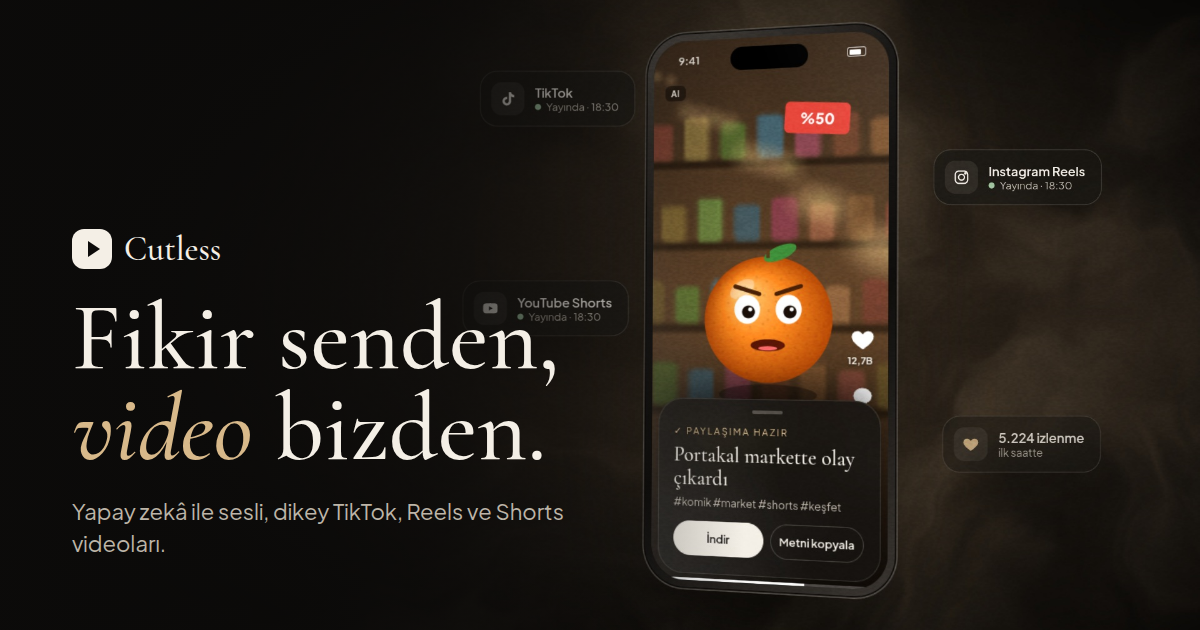
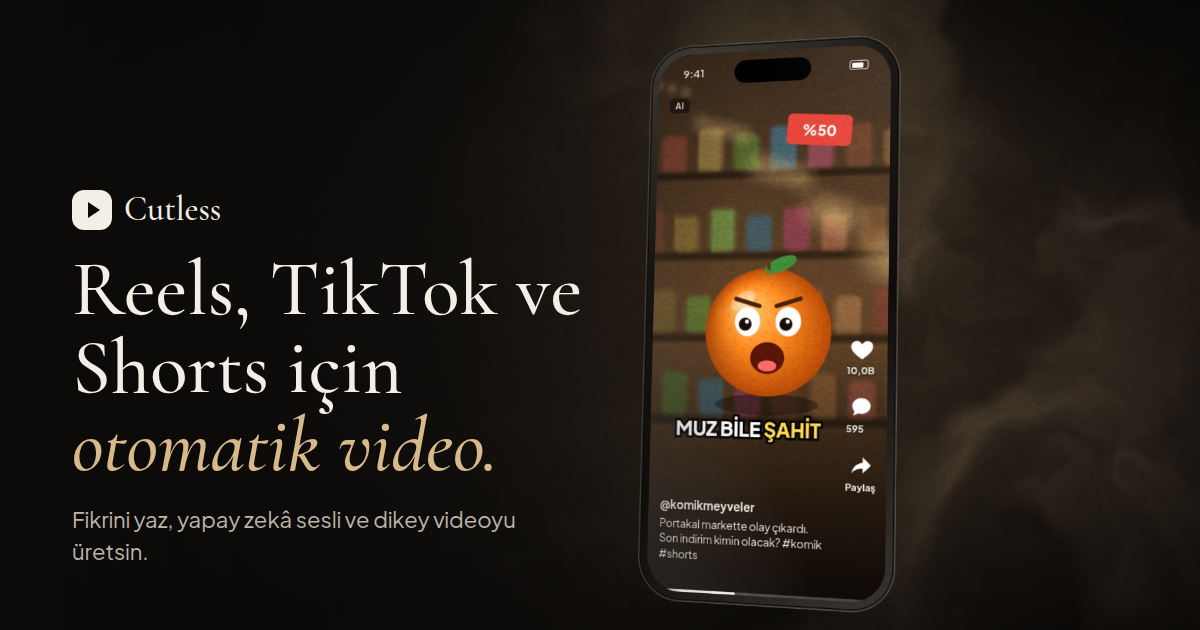
Site: giriş metni ürünü açıkça anlatıyor; sayaçlar yalnızca ilk girişte sayar
- Hero: 'Reels, TikTok ve Shorts için otomatik video.' + ne yaptığını
  anlatan alt metin, platform simgeleri ve güven satırı; alçak dizüstü
  ekranlarda başlık menünün altına kaçmaz
- Sekme başlığı, açıklama ve paylaşım görseli (og.png) aynı mesajla
- Bakiye ve panel sayıları oturumda yalnızca ilk görüşte 0'dan sayar;
  sonra doğrudan görünür, değiştiyse eski değerden yenisine kısaca sayar

Claude-Session: https://claude.ai/code/session_01EkGK4eBhzFBgDTSSVtWr1p

diff --git a/otoshort_site/saas/static/site.css b/otoshort_site/saas/static/site.css
@@ -213,13 +213,16 @@ hr.sep{border:0;border-top:1px solid var(--border);margin:24px 0}
 /* ============ Hero ============ */
 /* ============ Tanıtım filmi (hero) ============ */
 .home .nav{margin-bottom:calc(-68px * var(--fs) - 1px)}
-.hero-film{position:relative;height:100svh;min-height:640px;max-height:1100px;display:flex;align-items:flex-end;overflow:hidden;background:#0c0b0a;isolation:isolate}
+.hero-film{position:relative;height:100svh;min-height:640px;max-height:1100px;padding-top:calc(68px * var(--fs) + 24px);box-sizing:border-box;display:flex;align-items:flex-end;overflow:hidden;background:#0c0b0a;isolation:isolate}
 .hf-video{position:absolute;inset:0;width:100%;height:100%;object-fit:cover;z-index:-2;animation:hfin 1.6s var(--ease) both}
 .hf-shade{position:absolute;inset:0;z-index:-1;background:linear-gradient(90deg,rgba(12,11,10,.88) 0%,rgba(12,11,10,.55) 34%,rgba(12,11,10,0) 62%),linear-gradient(0deg,#0c0b0a 0%,rgba(12,11,10,0) 30%),linear-gradient(180deg,rgba(12,11,10,.6) 0%,rgba(12,11,10,0) 18%)}
 .hf-copy{display:grid;gap:26px;justify-items:start;padding-bottom:clamp(64px,11vh,120px)}
-.hf-copy h1{font-size:clamp(52px,7vw,150px);line-height:1;max-width:10em}
-.hf-copy .lead{max-width:34em}
+.hf-copy h1{font-size:clamp(48px,5.4vw,112px);line-height:1.02;max-width:11em}
+.hf-copy .lead{max-width:38em}
 .hf-copy .trust{gap:0;color:var(--text-3);font-size:calc(13px * var(--fs));letter-spacing:.02em}
+.hf-meta{display:flex;align-items:center;gap:18px;flex-wrap:wrap}
+.hf-plat{display:inline-flex;align-items:center;gap:14px;padding:0 18px 0 0;border-right:1px solid var(--border-2);color:var(--text-2)}
+.hf-plat .ic{opacity:.9}
 .hf-copy .trust span+span:before{content:"";display:inline-block;width:3px;height:3px;border-radius:50%;background:currentColor;margin:0 12px;vertical-align:middle}
 .hf-in{opacity:0;transform:translateY(22px);filter:blur(6px);animation:hfup 1.1s var(--spring,var(--ease)) forwards;animation-delay:calc(.35s + var(--i) * .12s)}
 .hf-scroll{position:absolute;left:50%;bottom:22px;transform:translateX(-50%);color:var(--text-3);animation:bob 2.4s ease-in-out infinite;padding:8px}
@@ -227,6 +230,7 @@ hr.sep{border:0;border-top:1px solid var(--border);margin:24px 0}
 @keyframes hfup{to{opacity:1;transform:none;filter:none}}
 @keyframes hfin{from{opacity:0;transform:scale(1.04)}}
 @keyframes bob{50%{transform:translate(-50%,6px)}}
+@media(max-height:820px) and (min-width:701px){.hf-copy{gap:18px;padding-bottom:56px}.hf-copy h1{font-size:clamp(44px,min(5vw,9.4vh),96px)}.hf-copy .lead{font-size:calc(16px * var(--fs))}}
 @media(max-aspect-ratio:4/5) and (min-width:701px){.hf-shade{background:linear-gradient(0deg,#0c0b0a 0%,rgba(12,11,10,.92) 30%,rgba(12,11,10,0) 56%)}}
 @media(max-width:700px){
   /* telefonda film ekranın üst kısmını kaplar; yazı her zaman filmdeki telefonun altından başlar,
@@ -235,7 +239,7 @@ hr.sep{border:0;border-top:1px solid var(--border);margin:24px 0}
   .hf-video,.hf-shade{bottom:auto;height:100svh;object-position:50% 0}
   .hf-shade{background:linear-gradient(0deg,#0c0b0a 0%,rgba(12,11,10,.9) 30%,rgba(12,11,10,0) 54%),linear-gradient(180deg,rgba(12,11,10,.55) 0%,rgba(12,11,10,0) 14%)}
   .hero-film .hf-copy{gap:16px;padding-top:calc(47svh + 8px);padding-bottom:48px}
-  .hf-copy h1{font-size:clamp(40px,11.5vw,56px)}
+  .hf-copy h1{font-size:clamp(36px,10.4vw,52px)}
   .hf-copy .lead{font-size:calc(15.5px * var(--fs))}
   .hf-copy .row .btn-ghost{display:none}
   .hf-scroll{display:none}
@@ -243,7 +247,7 @@ hr.sep{border:0;border-top:1px solid var(--border);margin:24px 0}
 @media(max-width:700px) and (max-height:720px){.hf-copy .trust{display:none}}
 .platforms{display:flex;align-items:center;justify-content:center;gap:clamp(18px,4vw,48px);flex-wrap:wrap;padding:26px 0;border-top:1px solid var(--border);border-bottom:1px solid var(--border);color:var(--text-3)}
 .platforms .eyebrow:before{display:none}
-.platforms .pf{display:inline-flex;align-items:center;gap:9px;font-size:calc(15px * var(--fs));font-weight:700;color:var(--text-2);letter-spacing:0}
+.platforms .pf{display:inline-flex;align-items:center;gap:10px;font-size:calc(15px * var(--fs));font-weight:700;color:var(--text-2);letter-spacing:0}
 
 /* ============ Nasıl çalışır maketleri ============ */
 .how{display:grid;grid-template-columns:repeat(3,minmax(0,1fr));gap:clamp(16px,1.3vw,24px)}

diff --git a/otoshort_site/saas/templates/index.html b/otoshort_site/saas/templates/index.html
@@ -16,23 +16,26 @@
     data-src="/static/hero/hero.mp4" data-src-m="/static/hero/hero-m.mp4" data-poster-m="/static/hero/hero-m.jpg" aria-hidden="true"></video>
   <div class="hf-shade" aria-hidden="true"></div>
   <div class="wrap hf-copy">
-    <span class="eyebrow hf-in" style="--i:0">Yapay zekâ video stüdyosu</span>
-    <h1 class="hf-in" style="--i:1">Fikir senden,<br><span class="hl">video</span> bizden.</h1>
-    <p class="lead hf-in" style="--i:2">Yapay zekâ senaryoyu yazar, sesli ve dikey videoyu üretir; başlığı, açıklaması ve hashtag'leri hazır gelir. İstersen her gün kendiliğinden.</p>
+    <span class="eyebrow hf-in" style="--i:0">Yapay zekâ ile otomatik kısa video</span>
+    <h1 class="hf-in" style="--i:1">Reels, TikTok ve<br>Shorts için<br><span class="hl">otomatik video.</span></h1>
+    <p class="lead hf-in" style="--i:2">Fikrini yaz ya da boş bırak; yapay zekâ senaryoyu yazar, sesli ve dikey videoyu üretir, başlığı ve hashtag'leri hazırlar. Kanalını bir kez kur, seçtiğin saatlerde her gün yeni video gelsin.</p>
     <div class="row hf-in" style="--i:3">
       <a class="btn btn-primary btn-lg" href="{{ start }}">{{ 'Video üret' if user else 'Ücretsiz başla' }} {{ icon('arrow-right', 17) }}</a>
       <a class="btn btn-ghost btn-lg" href="#nasil">Nasıl çalışır</a>
     </div>
-    <div class="trust hf-in" style="--i:4"><span>Abonelik yok</span><span>Türkçe + 4 dil</span><span>Başarısız videoda iade</span></div>
+    <div class="hf-meta hf-in" style="--i:4">
+      <span class="hf-plat" aria-label="TikTok, Instagram Reels ve YouTube Shorts için hazır">{{ brand('tiktok', 17) }}{{ brand('instagram', 17) }}{{ brand('youtube', 19) }}</span>
+      <span class="trust"><span>Kamera ve montaj gerekmez</span><span>Abonelik yok</span><span>Başarısız videoda iade</span></span>
+    </div>
   </div>
   <a class="hf-scroll" href="#vitrin" aria-label="Aşağı kaydır">{{ icon('chevron-down', 22) }}</a>
 </section>
 
 <div class="wrap"><div class="platforms reveal">
   <span class="eyebrow">Hazır format</span>
-  <span class="pf">{{ icon('phone', 17) }} TikTok</span>
-  <span class="pf">{{ icon('phone', 17) }} Instagram Reels</span>
-  <span class="pf">{{ icon('phone', 17) }} YouTube Shorts</span>
+  <span class="pf">{{ brand('tiktok', 18) }} TikTok</span>
+  <span class="pf">{{ brand('instagram', 18) }} Instagram Reels</span>
+  <span class="pf">{{ brand('youtube', 20) }} YouTube Shorts</span>
 </div></div>
 
 <section class="showcase-sec" id="vitrin"><div class="wrap">

diff --git a/otoshort_site/saas/templates/panel.html b/otoshort_site/saas/templates/panel.html
@@ -23,11 +23,11 @@
 {% endif %}
 <div class="stats">
   <div class="card stat reveal" data-tilt="4"><div class="k"><span class="icon-box accent" style="width:30px;height:30px;border-radius:9px">{{ icon('gem', 15) }}</span>Bakiye</div>
-    <div class="v"><span data-count="{{ user.credits }}">{{ user.credits }}</span> <small>kredi</small></div><a class="more" href="/kredi">Kredi yükle {{ icon('arrow-right', 14) }}</a></div>
+    <div class="v"><span data-count="{{ user.credits }}" data-count-key="bal">{{ user.credits }}</span> <small>kredi</small></div><a class="more" href="/kredi">Kredi yükle {{ icon('arrow-right', 14) }}</a></div>
   <div class="card stat reveal" data-delay="1" data-tilt="4"><div class="k"><span class="icon-box" style="width:30px;height:30px;border-radius:9px">{{ icon('repeat', 15) }}</span>Aktif kanal</div>
-    <div class="v"><span data-count="{{ n_channels }}">{{ n_channels }}</span></div><a class="more" href="/kanallar">Kanalları yönet {{ icon('arrow-right', 14) }}</a></div>
+    <div class="v"><span data-count="{{ n_channels }}" data-count-key="ch">{{ n_channels }}</span></div><a class="more" href="/kanallar">Kanalları yönet {{ icon('arrow-right', 14) }}</a></div>
   <div class="card stat reveal" data-delay="2" data-tilt="4"><div class="k"><span class="icon-box" style="width:30px;height:30px;border-radius:9px">{{ icon('video', 15) }}</span>Üretilen video</div>
-    <div class="v"><span data-count="{{ n_videos }}">{{ n_videos }}</span></div><span class="more faint">{{ qualities.lite.credits }}–{{ qualities.standard.credits }} kredi / video</span></div>
+    <div class="v"><span data-count="{{ n_videos }}" data-count-key="vid">{{ n_videos }}</span></div><span class="more faint">{{ qualities.lite.credits }}–{{ qualities.standard.credits }} kredi / video</span></div>
 </div>
 
 <form class="card quick reveal" method="get" action="/video/yeni" style="margin-bottom:36px">

diff --git a/otoshort_site/araclar/film/og.html b/otoshort_site/araclar/film/og.html
@@ -3,20 +3,20 @@
 <link rel="stylesheet" href="../../saas/static/fonts/fonts.css">
 <style>
 html,body{margin:0;font-variant-numeric:lining-nums;width:1200px;height:630px;overflow:hidden;background:#0c0b0a;color:#f4efe6;font-family:"Plus Jakarta Sans",sans-serif}
-.bg{position:absolute;inset:0;background:url(kareler/0/0400.jpg) 70% 50%/cover no-repeat}
+.bg{position:absolute;inset:0;background:url(kareler/0/0335.jpg) 70% 50%/cover no-repeat}
 .shade{position:absolute;inset:0;background:linear-gradient(90deg,rgba(12,11,10,.95) 0%,rgba(12,11,10,.7) 38%,rgba(12,11,10,0) 62%)}
-.copy{position:absolute;left:72px;bottom:70px;display:grid;gap:22px}
+.copy{position:absolute;left:72px;bottom:62px;display:grid;gap:20px}
 .brand{display:flex;align-items:center;gap:12px;font-family:"Cormorant Garamond";font-weight:500;font-size:34px}
 .mark{width:40px;height:40px;border-radius:12px;background:#f4efe6;display:grid;place-items:center}
 .mark:after{content:"";border-left:12px solid #0c0b0a;border-top:8px solid transparent;border-bottom:8px solid transparent;margin-left:4px}
-h1{margin:0;font-family:"Cormorant Garamond";font-weight:500;font-size:96px;line-height:.95}
+h1{margin:0;font-family:"Cormorant Garamond";font-weight:500;font-size:78px;line-height:1}
 h1 em{color:#d8b98a}
 p{margin:0;font-size:22px;color:#bdb5a8;max-width:520px;line-height:1.45}
 </style></head><body>
 <div class="bg"></div><div class="shade"></div>
 <div class="copy">
   <div class="brand"><span class="mark"></span>Cutless</div>
-  <h1>Fikir senden,<br><em>video</em> bizden.</h1>
-  <p>Yapay zekâ ile sesli, dikey TikTok, Reels ve Shorts videoları.</p>
+  <h1>Reels, TikTok ve<br>Shorts için<br><em>otomatik video.</em></h1>
+  <p>Fikrini yaz, yapay zekâ sesli ve dikey videoyu üretsin.</p>
 </div>
 </body></html>

diff --git a/otoshort_site/saas/static/fx.js b/otoshort_site/saas/static/fx.js
@@ -158,13 +158,20 @@
     chips.forEach(c => { const d = +c.dataset.depth; c.style.translate = `${-x * d}px ${-y * d}px`; });
   }, { passive: true });
 
-  // Sayı animasyonu
-  $$('[data-count]').forEach(el => {
-    const end = parseInt(el.dataset.count, 10) || 0; if (reduce || end < 2) { el.textContent = end; return; }
-    const t0 = performance.now(), dur = 1100;
-    (function step(t) { const k = Math.min(1, (t - t0) / dur), v = 1 - Math.pow(1 - k, 4); el.textContent = Math.round(end * v).toLocaleString('tr-TR');
+  // Sayı animasyonu: oturumda ilk görüşte 0'dan sayar; sonraki sayfalarda sayı doğrudan görünür,
+  // değiştiyse (ör. kredi harcandı) eski değerden yenisine kısaca sayar
+  const seen = (() => { try { return JSON.parse(sessionStorage.getItem('counts') || '{}'); } catch (e) { return {}; } })();
+  const next = { ...seen };
+  $$('[data-count]').forEach((el, i) => {
+    const end = parseInt(el.dataset.count, 10) || 0, key = el.dataset.countKey || location.pathname + '#' + i;
+    const from = key in seen ? seen[key] : 0; next[key] = end;
+    const fmt = n => Math.round(n).toLocaleString('tr-TR');
+    if (reduce || from === end || Math.abs(end - from) < 2) { el.textContent = fmt(end); return; }
+    const t0 = performance.now(), dur = key in seen ? 650 : 1100;
+    (function step(t) { const k = Math.min(1, (t - t0) / dur), v = 1 - Math.pow(1 - k, 4); el.textContent = fmt(from + (end - from) * v);
       if (k < 1) requestAnimationFrame(step); })(t0);
   });
+  try { sessionStorage.setItem('counts', JSON.stringify(next)); } catch (e) {}
 
   // Yazma animasyonu (ana sayfa maketi)
   $$('[data-type]').forEach(el => {

diff --git a/otoshort_site/saas/templates/base.html b/otoshort_site/saas/templates/base.html
@@ -3,13 +3,13 @@
 <head>
 <meta charset="utf-8">
 <meta name="viewport" content="width=device-width, initial-scale=1, viewport-fit=cover">
-<title>{% block title %}{{ site }} — Yapay zekâ ile otomatik kısa video{% endblock %}</title>
-<meta name="description" content="Yapay zekâ ile TikTok, Reels ve Shorts videoları üret. Kanalını bir kere kur, videolar her gün kendiliğinden gelsin.">
+<title>{% block title %}{{ site }} — Yapay zekâ ile otomatik Reels, TikTok ve Shorts videoları{% endblock %}</title>
+<meta name="description" content="Yapay zekâ ile sesli, dikey Reels, TikTok ve Shorts videoları üret. Otomatik kanal kur, seçtiğin saatlerde her gün yeni video gelsin.">
 <meta name="theme-color" content="#0c0b0a">
 <meta property="og:type" content="website">
 <meta property="og:site_name" content="{{ site }}">
-<meta property="og:title" content="{{ site }} — Kanalını bir kere kur, videolar kendiliğinden gelsin">
-<meta property="og:description" content="Yapay zekâ ile sesli, dikey TikTok/Reels/Shorts videoları. Otomatik kanallarla her gün yeni video.">
+<meta property="og:title" content="{{ site }} — Reels, TikTok ve Shorts için otomatik video">
+<meta property="og:description" content="Fikrini yaz, yapay zekâ sesli ve dikey videoyu üretsin. Otomatik kanallarla her gün yeni video.">
 <meta property="og:image" content="{{ base_url }}/static/og.png">
 <meta name="twitter:card" content="summary_large_image">
 <link rel="preload" href="/static/fonts/cormorant-garamond-latin-wght-normal.woff2" as="font" type="font/woff2" crossorigin>

diff --git a/otoshort_site/saas/templates/app_base.html b/otoshort_site/saas/templates/app_base.html
@@ -16,7 +16,7 @@
     <div class="side-foot">
       <div class="wallet">
         <div class="row between"><span class="tiny faint mono" style="letter-spacing:.08em">BAKİYE</span>{{ icon('gem', 16, 'faint') }}</div>
-        <div class="bal"><b data-count="{{ user.credits }}">{{ user.credits }}</b><span class="faint small">kredi</span></div>
+        <div class="bal"><b data-count="{{ user.credits }}" data-count-key="bal">{{ user.credits }}</b><span class="faint small">kredi</span></div>
         <a class="btn btn-ghost btn-sm btn-block" href="/kredi">{{ icon('plus', 14) }} Kredi yükle</a>
       </div>
       <div class="me">

diff --git a/otoshort_site/saas/icons.py b/otoshort_site/saas/icons.py
@@ -62,6 +62,18 @@ PATHS = {
 }
 
 
+BRANDS = {  # tek renk dolgulu platform simgeleri (uyumluluğu göstermek için)
+    "tiktok": '<path d="M16.5 3c.4 2.3 1.9 3.8 4.2 4v3.2c-1.5 0-2.9-.4-4.2-1.2v6.4a6 6 0 1 1-6-6h.6v3.3a2.8 2.8 0 1 0 2.2 2.7V3h3.2z"/>',
+    "instagram": '<path fill-rule="evenodd" d="M7.5 3h9A4.5 4.5 0 0 1 21 7.5v9a4.5 4.5 0 0 1-4.5 4.5h-9A4.5 4.5 0 0 1 3 16.5v-9A4.5 4.5 0 0 1 7.5 3zm0 1.8A2.7 2.7 0 0 0 4.8 7.5v9a2.7 2.7 0 0 0 2.7 2.7h9a2.7 2.7 0 0 0 2.7-2.7v-9a2.7 2.7 0 0 0-2.7-2.7zM12 7.6a4.4 4.4 0 1 1 0 8.8 4.4 4.4 0 0 1 0-8.8zm0 1.8a2.6 2.6 0 1 0 0 5.2 2.6 2.6 0 0 0 0-5.2zm4.8-3a1 1 0 1 1 0 2 1 1 0 0 1 0-2z"/>',
+    "youtube": '<path d="M21.6 7.2a2.6 2.6 0 0 0-1.8-1.8C18.2 5 12 5 12 5s-6.2 0-7.8.4A2.6 2.6 0 0 0 2.4 7.2C2 8.8 2 12 2 12s0 3.2.4 4.8a2.6 2.6 0 0 0 1.8 1.8C5.8 19 12 19 12 19s6.2 0 7.8-.4a2.6 2.6 0 0 0 1.8-1.8c.4-1.6.4-4.8.4-4.8s0-3.2-.4-4.8zM10 15V9l5.2 3L10 15z"/>',
+}
+
+
+def brand(name: str, size: int = 18) -> Markup:
+    return Markup(f'<svg class="ic" width="{size}" height="{size}" viewBox="0 0 24 24" fill="currentColor" '
+                  f'aria-hidden="true">{BRANDS[name]}</svg>')
+
+
 def icon(name: str, size: int = 18, cls: str = "") -> Markup:
     body = PATHS.get(name, PATHS["info"])
     return Markup(

diff --git a/otoshort_site/saas/app.py b/otoshort_site/saas/app.py
@@ -13,7 +13,7 @@ from starlette.middleware.sessions import SessionMiddleware
 
 from . import ai as ai_mod
 from . import config, credits, db, growth, mailer, oauth, tokens, worker
-from .icons import LOGO, icon
+from .icons import LOGO, brand, icon
 from .models import Channel, CreditTx, Job, PromoCode, TopUp, User, now
 from .security import RateLimiter, check_password, csrf_ok, csrf_token, hash_password
 
@@ -199,6 +199,7 @@ templates.env.filters["slot"] = lambda slot: (f"{slot[5:21]} · elle" if slot.st
 STATUS_LABELS = {"sirada": "Sırada", "uretiliyor": "Üretiliyor", "hazir": "Hazır", "hata": "Hata"}
 templates.env.globals["status_labels"] = STATUS_LABELS
 templates.env.globals["icon"] = icon
+templates.env.globals["brand"] = brand
 templates.env.globals["LOGO"] = LOGO
 STATUS_BADGE = {"sirada": "b-wait", "uretiliyor": "b-wait", "hazir": "b-ok", "hata": "b-err"}
 templates.env.globals["status_badge"] = STATUS_BADGE
